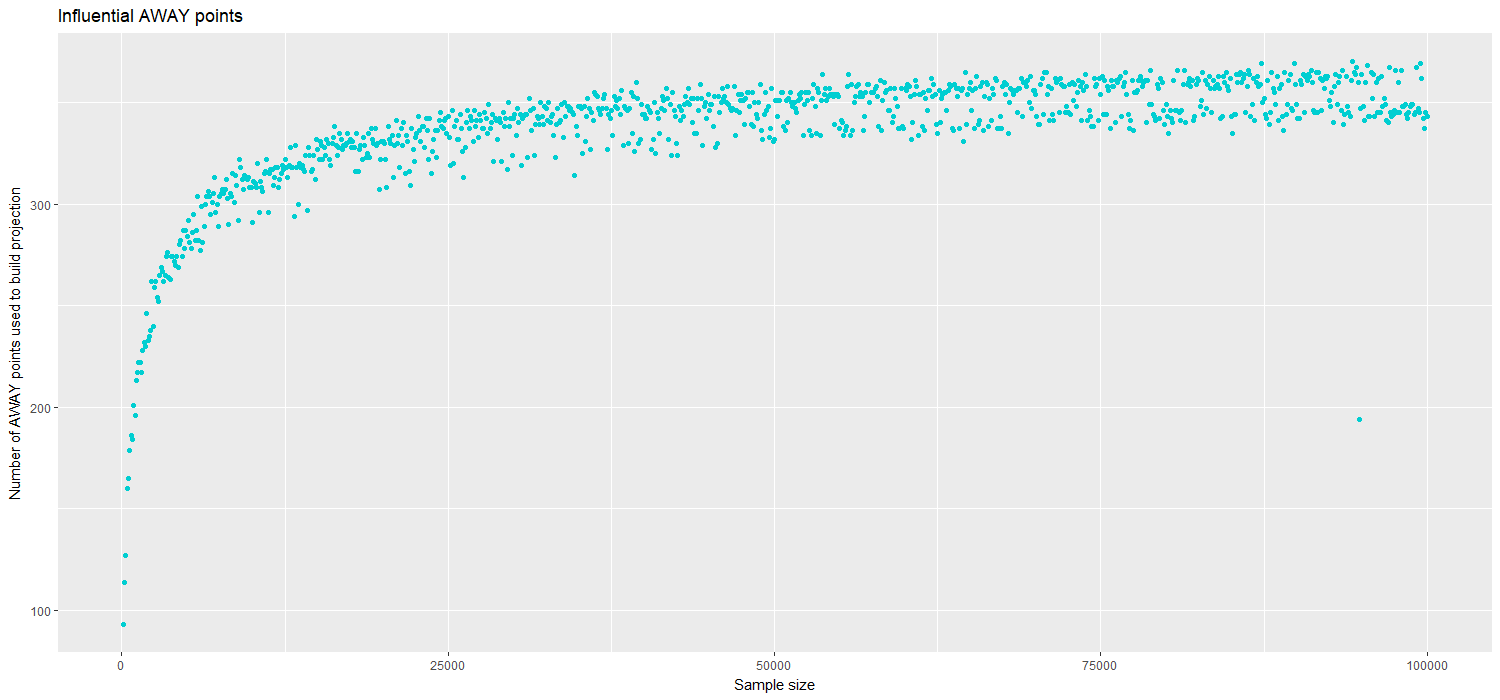
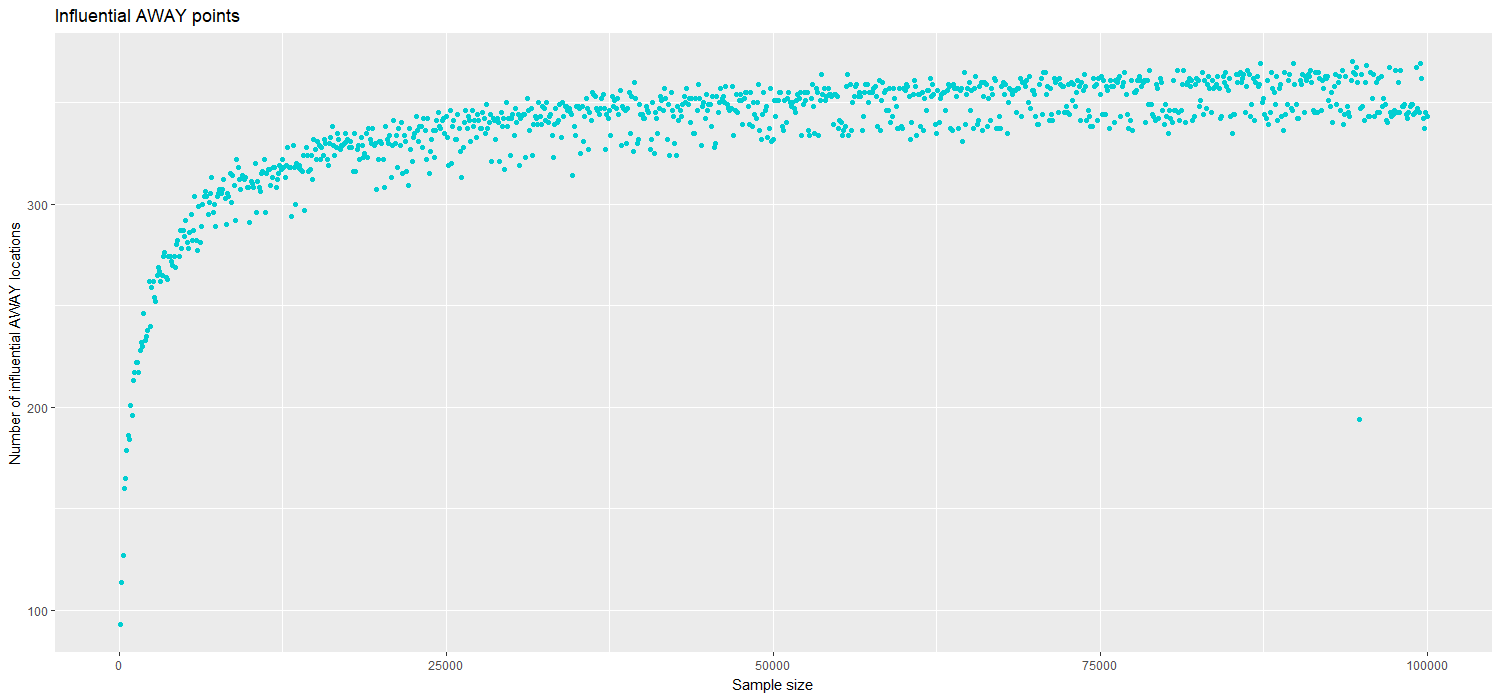
includes boxplot

diff --git a/Report-SA-CMI.md b/Report-SA-CMI.md
@@ -11,8 +11,6 @@ bibliography: library.bib
 
 [TITLE]
 
-# Petita prova
-
 # The Match Climates algorithm for pest risk analysis (PRA)
 
 The climatic similarity between two locations can be used to inform a key question in pest risk analysis (PRA). PRA aims to assess the risk that a specific species poses to an area of interest (PRA area). One way to infer whether the species of interest could become established in the PRA area is by comparing the climate of abroad locations where the species is present to the climate of the region of interest.
@@ -39,50 +37,67 @@ Here we perform a sensitivity analysis of the match climates algorithm to the nu
 
 To do so, we chose the species _Mentha aquatica_ because of its large number of overseas presence points (189,835). Then we built 1000 HOME projections, starting with a sample size of 100 AWAY points and increasing it by 100 each iteration until reached a sample size of 100,000. The analysis took over three weeks time to run.
 
-![Flow chart of this study](CMI-projections-NZ.png)
+![Flow chart of _Mentha aquatica_ case study](CMI-projections-NZ.png)
 
 ### Number of AWAY points
+More AWAY points allows the algorithm to compare the climate data of each HOME point to more potential AWAY matches thus increasing the likelihood of obtaining a better match (higher CMI).Therefore, we expect that a larger number of AWAY points will increase the average CMI obtained in the HOME projection.
 
-Hypotheses: More AWAY points mean more one to one comparisons HOME vs AWAY are gonna be carried, increasing the chance of finding a higher CMI value as a best match for each HOME location.
+The results of _Mentha aquatica_ case study show how the number of AWAY points and the CMI have a positive relationship (Figure 1).
 
-1. Do more away points increase average CMI in the HOME projection?
+1. Scatterplot of number of away points and mean CMI
 
-![Regression line](nz_proj_summarised/lm_meancMI_samplesize.png)
+![Relationship between number of away points and mean CMI](nz_proj_summarised/lm_meancMI_samplesize.png)
 
-2. Do more AWAY points decrease the variability of the CMI values obtained in the HOME projection?
+At the same time the variability of CMI values (measured by their sd) seems to decrease with higher sample sizes (number of AWAY points used in calculating the HOME projection) (Figure 2).
 
-![Regression line](nz_proj_summarised/lm_sdCMI_samplesize.png)
+2.Scatterplot of number of away points and variability of CMIs
 
-3. Is there a minimum amount of AWAY points that ensures a stable projection?
+![Decrease of CMI variability with higher sample sizes](nz_proj_summarised/lm_sdCMI_samplesize.png)
 
-### Number of HOME locations that obtained each CMI values
-#### The CMI = 0.7 threshold value
+An interesting question is whether there a minimum amount of AWAY points that ensures a stable projection. Figure 1 seems to show a plateau after 50,000 AWAY points. This result suggests that a very large number of AWAY points are required to build 'good projections'.
+
+ A consequencie of using over 50,000 AWAY presence points is that it increases the likelihood of including the Influential AWAY points in the sample. Influential AWAY points are those that become the best match for a big number of HOME locations.
+
+ ## The importance of the **influential** AWAY points
+
+ The influential AWAY points are those overseas points that have matched the most with HOME locations when constructing the projection.
+
+ Figure 3 shows that the greater number of AWAY points used, more AWAY points the projection contains. Consequently, projections built using few AWAY points will be very sensitive to the quality of their most Influential AWAY points.
+
+3.Relationship between the number of best matched points points and sample size
+
+ ![Scatterplot](nz_proj_summarised/influential_AWAY_points_scatterplot.png)
+
+
+## Number of HOME locations that obtained each CMI values
+### The CMI = 0.7 threshold value
 
 Because CMI ranges between 0 and 1, the 0.7 CMI threshold is generally interpreted as indicating two climates are sufficiently similar for a species to persist in both. However that threshold is rather arbitrary and potentially species specific.
 
-![Facet plot](nz_proj_summarised/04_out_cmis_fac_by_all_subsample_2018-10-22.png)
+Each facet plot below shows the number of New Zealand locations that obtained each CMI value for a given sample size. The red vertical line shows where the 0.7 CMI value lies and how many locations are over it.
 
+4. Facet plots for 11 sample sizes from 100 to 100,000
+![Facet plot of different sample sizes](nz_proj_summarised/04_out_cmis_fac_by_all_subsample_2018-10-22.png)
+
+5. 'Zoom' to sample sizes from 100 to 2500
 ![Facet plot](nz_proj_summarised/04_out_cmis_fac_by_zoom_subsample_2018-10-22.png)
 
+6. More detailed 'Zoom' to sample sizes from 100-2500
 ![Facet plot zoom](nz_proj_summarised/04_out_cmis_fac_by_finer_subsample_2018-10-21.png)
 
+7. Boxplot of the proportions of
 
-## The importance of the **influential** AWAY points
-
-The influential AWAY points are those overseas points that have matched the most with HOME locations when constructing the projection.
-
-![Scatterplot](nz_proj_summarised/influential_AWAY_points_scatterplot.png)
+![Box plot of the proportions of CMIs over 0.7](Boxplot_all.png)
 
 
-### Proportion of HOME to AWAY locations
+#### Proportion of HOME to AWAY locations
 
-[Extracted from @Phillips2018] The number of HOME locations with climates favourable for establishment will generally increase with the proportion of CMIs over 0.7. However, the total number of overseas climate cells from which the proportion for each species was calculated must also be considered when interpreting such data (Fig. 3). For example, Nylanderia vaga (Forel), Strumigenys xenos Brown, Pheidole rugulosa Forel and P. proxima Mayr had CMIs from only three or fewer non-New Zealand locations (Fig. 3). This suggests their distributions were under-represented by the data and, had CMIs for more locations been available, some would likely have been less than 0.7, particularly for tropical or subtropical species such as N. vaga. Thus, the
-proportions of CMIs C 0.7 could be too high for these species (Fig. 3).
+_[Extracted from @Phillips2018] The number of HOME locations with climates favourable for establishment will generally increase with the proportion of CMIs over 0.7. However, the total number of overseas climate cells from which the proportion for each species was calculated must also be considered when interpreting such data. For example, Nylanderia vaga (Forel), Strumigenys xenos Brown, Pheidole rugulosa Forel and P. proxima Mayr had CMIs from only three or fewer non-New Zealand locations. This suggests their distributions were under-represented by the data and, had CMIs for more locations been available, some would likely have been less than 0.7, particularly for tropical or subtropical species such as N. vaga. Thus, the
+proportions of CMIs C 0.7 could be too high for these species._
 
 
+### Species specificity of the 0.7 threshold
 
-### Species specificity
-Imagine a species  with all its occurrence points very similar to each other. You could assume that species has a very narrow climate range, therefore maybe a 0.7 threshold value is too low and we would be overconsidering the threat it poses to the HOME location. On the contrary, imagine a species that has a very broad climatic range (which could be indicative of niche expansion) and its best match with HOME location is 0.6. Wouldn't it be wise to consider the species for further PRA since it has potential to keep expanding its climatic niche?
-One solution could be to correct the CMI threshold by some variability measure of the species climatic niche?
+A potential way to evaluate whether the 0.7 threshold is suitable for the species of concern is to calculate the climatic variability of the species known abroad range. 
 
-This will also be related to the number of AWAY points used to calculate the projection (more points, more probability of a wider climatic range).
+A species with all its occurrence points climatically similar to each other will probably have a narrow climate niche. In that case, a 0.7 threshold value might be too low.On the other hand, a species with a very broad climatic range could indicate the species is ongoing a process of niche expansion, for which then a 0.7 threshold could be too high. This will also be related to the number of AWAY points used to calculate the projection (more points, more probability of a wider climatic range).
